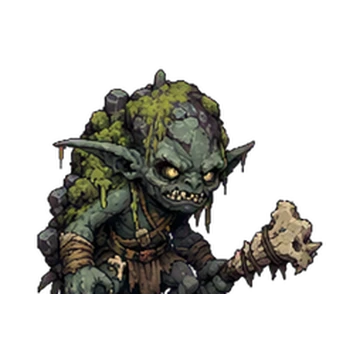
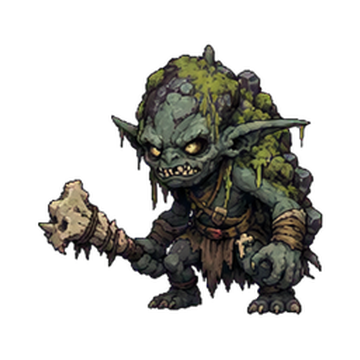
Refresh Project-A monster portraits

diff --git a/index.html b/index.html
@@ -559,7 +559,7 @@
                         <h4 class="case-mini-title">몬스터 리스트</h4>
                         <div class="monster-roster-grid">
                             <article class="monster-role-card">
-                                <img src="IMG_Projects/ProjectA/mire_imp_portrait.webp?v=fullbody" alt="마이어 임프 포트레이트">
+                                <img src="IMG_Projects/ProjectA/mire_imp_portrait.webp?v=fullbody3" alt="마이어 임프 포트레이트">
                                 <div>
                                     <strong>마이어 임프</strong>
                                     <span>온보딩 / 예고 읽기</span>
@@ -567,7 +567,7 @@
                                 </div>
                             </article>
                             <article class="monster-role-card">
-                                <img src="IMG_Projects/ProjectA/bog_stalker_portrait.webp?v=fullbody" alt="늪 추적자 포트레이트">
+                                <img src="IMG_Projects/ProjectA/bog_stalker_portrait.webp?v=fullbody2" alt="늪 추적자 포트레이트">
                                 <div>
                                     <strong>늪 추적자</strong>
                                     <span>템포 압박 / 카드 사용량 체크</span>
@@ -583,7 +583,7 @@
                                 </div>
                             </article>
                             <article class="monster-role-card">
-                                <img src="IMG_Projects/ProjectA/gravebound_crawler_portrait.webp?v=fullbody" alt="무덤 크롤러 포트레이트">
+                                <img src="IMG_Projects/ProjectA/gravebound_crawler_portrait.webp?v=fullbody2" alt="무덤 크롤러 포트레이트">
                                 <div>
                                     <strong>무덤 크롤러</strong>
                                     <span>장기전 / 방어 돌파</span>
@@ -591,7 +591,7 @@
                                 </div>
                             </article>
                             <article class="monster-role-card">
-                                <img src="IMG_Projects/ProjectA/frost_revenant_portrait.webp?v=fullbody" alt="프로스트 레버넌트 포트레이트">
+                                <img src="IMG_Projects/ProjectA/frost_revenant_portrait.webp?v=fullbody2" alt="프로스트 레버넌트 포트레이트">
                                 <div>
                                     <strong>프로스트 레버넌트</strong>
                                     <span>엘리트 / 폭딜 타이밍</span>
